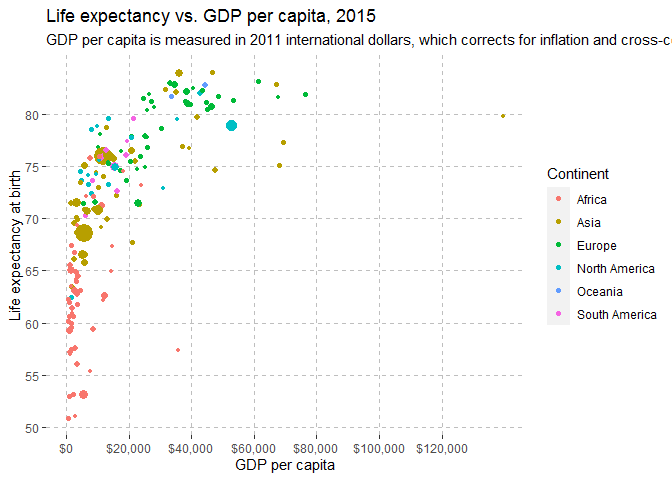
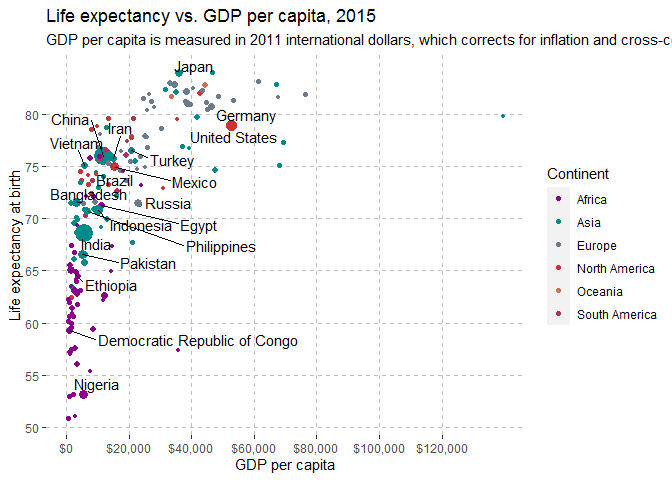
task 6

Changed region(s): [[0.0625, 0.2188, 0.4375, 0.75], [0.2188, 0.125, 0.4375, 0.3125], [0.0938, 0.7812, 0.1875, 0.8438]]

diff --git a/DTS350TemplateMaster/Week_04/Class_Task_06/Task6.html b/DTS350TemplateMaster/Week_04/Class_Task_06/Task6.html
@@ -373,15 +373,16 @@ summary {
 <h2>Plot Replication</h2>
 <p>I chose a plot that compared the GDP Per Capita to the Life Expectancy at birth. I was able to come up an extremely close parallel.</p>
 <pre><code>## Warning: package &#39;tidyverse&#39; was built under R version 3.6.3</code></pre>
-<pre><code>## -- Attaching packages --------- tidyverse 1.3.0 --</code></pre>
+<pre><code>## -- Attaching packages ---------------------------------------------------------------- tidyverse 1.3.0 --</code></pre>
 <pre><code>## v ggplot2 3.3.2     v purrr   0.3.3
 ## v tibble  2.1.3     v dplyr   0.8.4
 ## v tidyr   1.0.2     v stringr 1.4.0
 ## v readr   1.3.1     v forcats 0.4.0</code></pre>
 <pre><code>## Warning: package &#39;ggplot2&#39; was built under R version 3.6.3</code></pre>
-<pre><code>## -- Conflicts ------------ tidyverse_conflicts() --
+<pre><code>## -- Conflicts ------------------------------------------------------------------- tidyverse_conflicts() --
 ## x dplyr::filter() masks stats::filter()
 ## x dplyr::lag()    masks stats::lag()</code></pre>
+<pre><code>## Warning: package &#39;ggrepel&#39; was built under R version 3.6.3</code></pre>
 <pre><code>## Parsed with column specification:
 ## cols(
 ##   Entity = col_character(),
@@ -392,7 +393,7 @@ summary {
 ##   `Life expectancy` = col_double(),
 ##   `Real GDP per capita in 2011US$, multiple benchmarks (Maddison Project Database (2018))` = col_double()
 ## )</code></pre>
[2 lines of base64/hex data omitted]
 </div>
 <div id="child-mortality" class="section level2">
 <h2>Child Mortality</h2>

diff --git a/DTS350TemplateMaster/Week_04/Class_Task_06/Task6.md b/DTS350TemplateMaster/Week_04/Class_Task_06/Task6.md
@@ -19,7 +19,7 @@ I chose a plot that compared the GDP Per Capita to the Life Expectancy at birth.
 ```
 
 ```
-## -- Attaching packages --------- tidyverse 1.3.0 --
+## -- Attaching packages ---------------------------------------------------------------- tidyverse 1.3.0 --
 ```
 
 ```
@@ -34,9 +34,13 @@ I chose a plot that compared the GDP Per Capita to the Life Expectancy at birth.
 ```
 
 ```
-## -- Conflicts ------------ tidyverse_conflicts() --
+## -- Conflicts ------------------------------------------------------------------- tidyverse_conflicts() --
 ## x dplyr::filter() masks stats::filter()
 ## x dplyr::lag()    masks stats::lag()
+```
+
+```
+## Warning: package 'ggrepel' was built under R version 3.6.3
 ```
 
 ```
